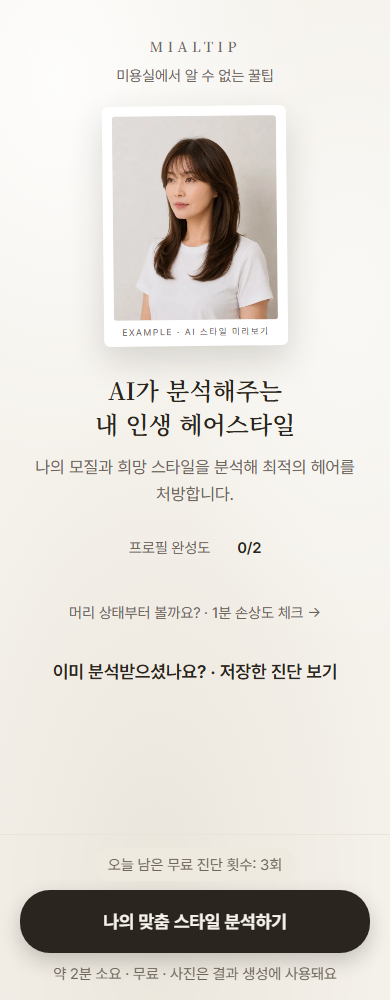
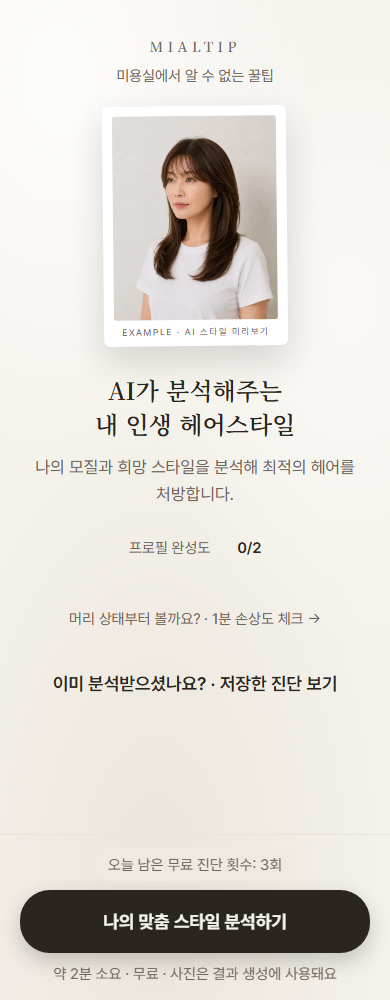
fix(ui-redesign): Codex 그룹A 반영 — 터치 56·설문 단계명 15
- /style 랜딩 보조링크 min-h-[48px]→56.
- TestHeader 단계명 11→15(공용: style·damage 설문 반영).
- result 저장모달 닫기 h-11→56, items/[id] 구매버튼 48→56.
- 문장·로직 무변경. tsc 0.

diff --git a/app/items/[id]/ItemBuyButton.tsx b/app/items/[id]/ItemBuyButton.tsx
@@ -33,7 +33,7 @@ export default function ItemBuyButton({ id, buyLink }: { id: number; buyLink: st
           treatmentFreq: seg.treatmentFreq,
         });
       }}
-      className="flex min-h-[48px] w-full items-center justify-center gap-1.5 rounded-btn bg-btn-bg border border-btn-border py-3.5 text-emphasis font-bold text-btn-text transition-all hover:brightness-95 active:scale-[0.99]"
+      className="flex min-h-14 w-full items-center justify-center gap-1.5 rounded-btn bg-btn-bg border border-btn-border py-3.5 text-emphasis font-bold text-btn-text transition-all hover:brightness-95 active:scale-[0.99]"
     >
       구매하러 가기 →
     </a>

diff --git a/app/style/page.tsx b/app/style/page.tsx
@@ -109,7 +109,7 @@ export default function StyleLandingPage() {
             <Link
               href="/damage-check"
               onClick={() => trackEvent("diagnosis_card_click", { diagnosisType: "damage", source: "style_landing_secondary" })}
-              className="block min-h-[48px] py-3 text-center text-aux text-sub transition-colors active:text-ink"
+              className="flex min-h-14 items-center justify-center py-3 text-center text-aux text-sub transition-colors active:text-ink"
             >
               머리 상태부터 볼까요? · 1분 손상도 체크 →
             </Link>

diff --git a/components/beauty-ui/TestHeader.tsx b/components/beauty-ui/TestHeader.tsx
@@ -23,7 +23,7 @@ export default function TestHeader({
     <header className="sticky top-0 z-20 bg-bg/95 px-5 pb-3 pt-3 backdrop-blur-md">
       {leading && <div className="mb-1 flex min-h-14 items-center">{leading}</div>}
       <div className="mb-2 flex items-center justify-between">
-        <span className="text-[11px] font-bold uppercase tracking-[0.2em] text-ink-2">
+        <span className="text-[15px] font-bold uppercase tracking-[0.1em] text-ink-2">
           {stepLabel}
         </span>
         <span className="tabular-nums text-aux font-semibold text-ink-2">

diff --git a/app/style/result/page.tsx b/app/style/result/page.tsx
@@ -167,7 +167,7 @@ function SaveDiaryModal({
               />
             : "나의 헤어에 저장"}
         </button>
-        <button onClick={onClose} className="mt-2.5 flex h-11 w-full items-center justify-center rounded-full text-[15px] text-ink-2 hover:text-ink">
+        <button onClick={onClose} className="mt-2.5 flex min-h-14 w-full items-center justify-center rounded-full text-[15px] text-ink-2 hover:text-ink">
           나중에 저장하기
         </button>
       </motion.div>
